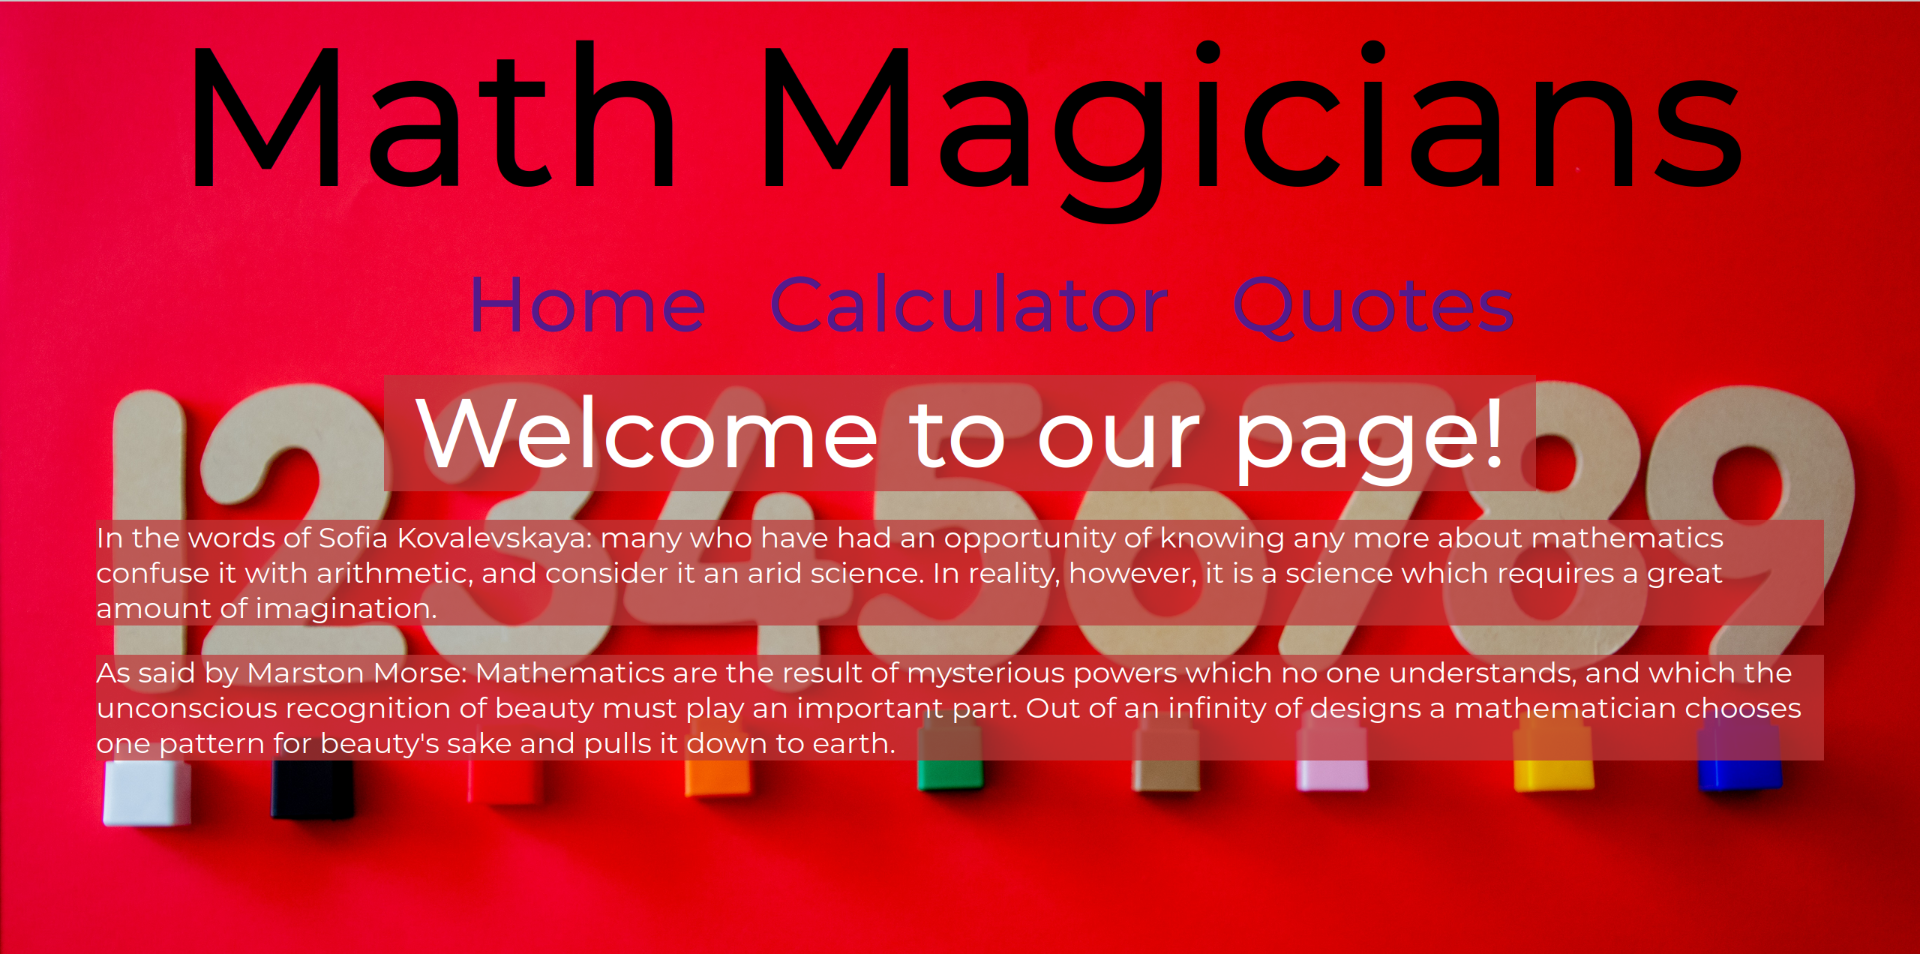
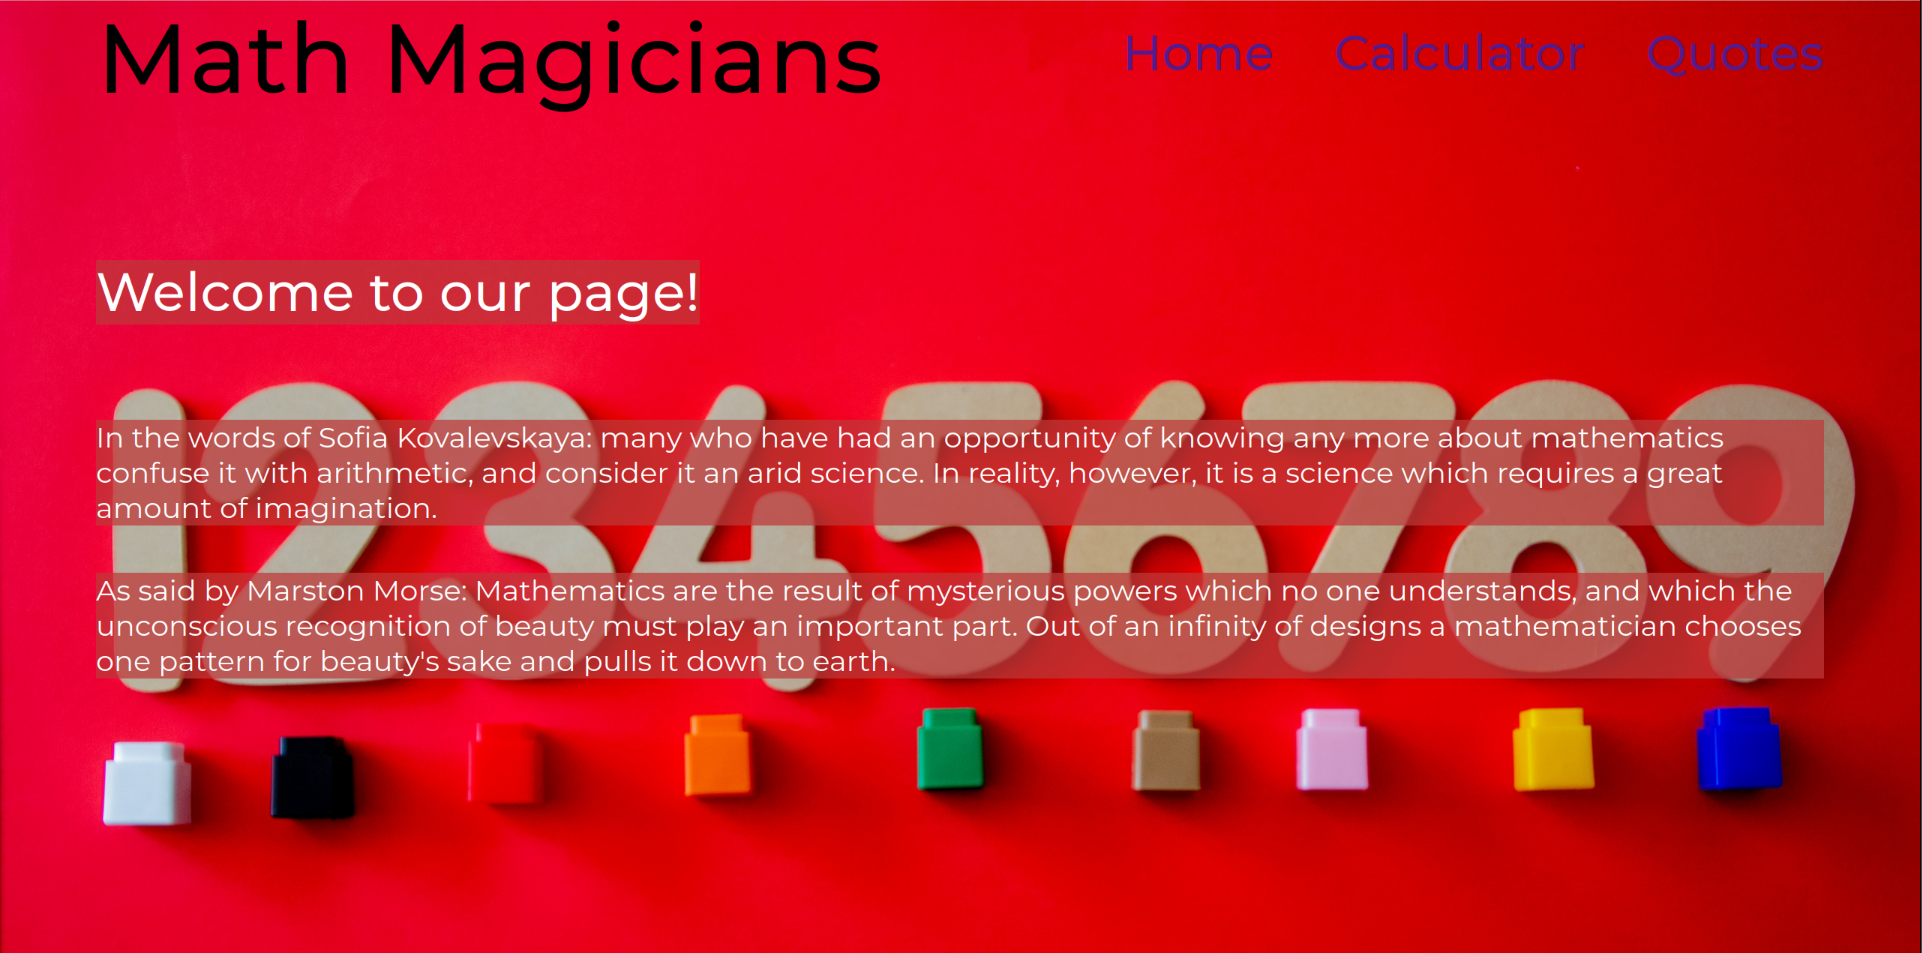
Corrected a few minor details and submitted a new screenshot

diff --git a/src/components/App.css b/src/components/App.css
@@ -51,12 +51,13 @@ body {
 .textParagraph {
   color: #ffff;
   text-align: start;
-  font-size: 10vh;
+  font-size: 35px;
   background-color: #be3838b9;
 }
 
 .welcome {
   margin: 15vh 0px 10vh 0px;
+  width: fit-content;
 }
 
 .textParagraph {
